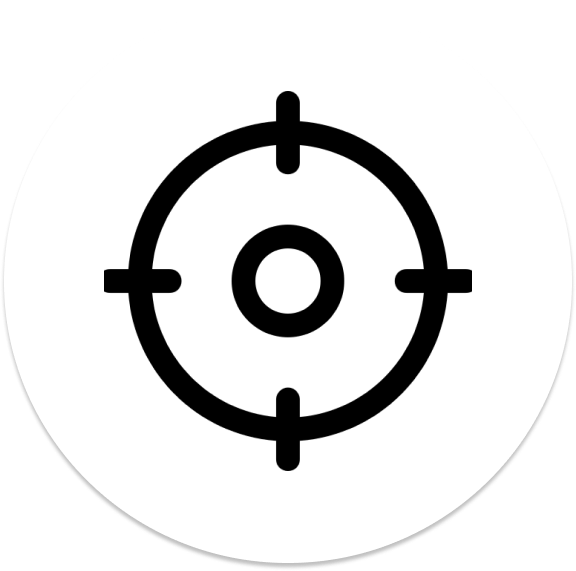
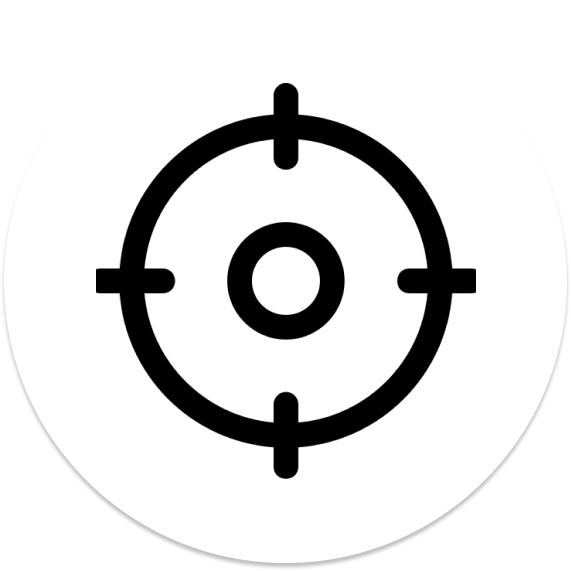
feat: 유저 맵 제작

diff --git a/frontend/user/dev-dist/sw.js b/frontend/user/dev-dist/sw.js
@@ -82,7 +82,7 @@ define(['./workbox-b5f7729d'], (function (workbox) { 'use strict';
     "revision": "3ca0b8505b4bec776b69afdba2768812"
   }, {
     "url": "index.html",
-    "revision": "0.ro2kovt4au"
+    "revision": "0.r2rfv0s8fqg"
   }], {});
   workbox.cleanupOutdatedCaches();
   workbox.registerRoute(new workbox.NavigationRoute(workbox.createHandlerBoundToURL("index.html"), {

diff --git a/frontend/user/src/component/Map.jsx b/frontend/user/src/component/Map.jsx
@@ -315,7 +315,7 @@ function Map() {
       >
         <img
           src="../public/img/center.png"
-          style={{ width: "30px", height: "30px", border_radius: "15px" }}
+          style={{ width: "50px", height: "50px" }}
         />
       </button>
       <div
